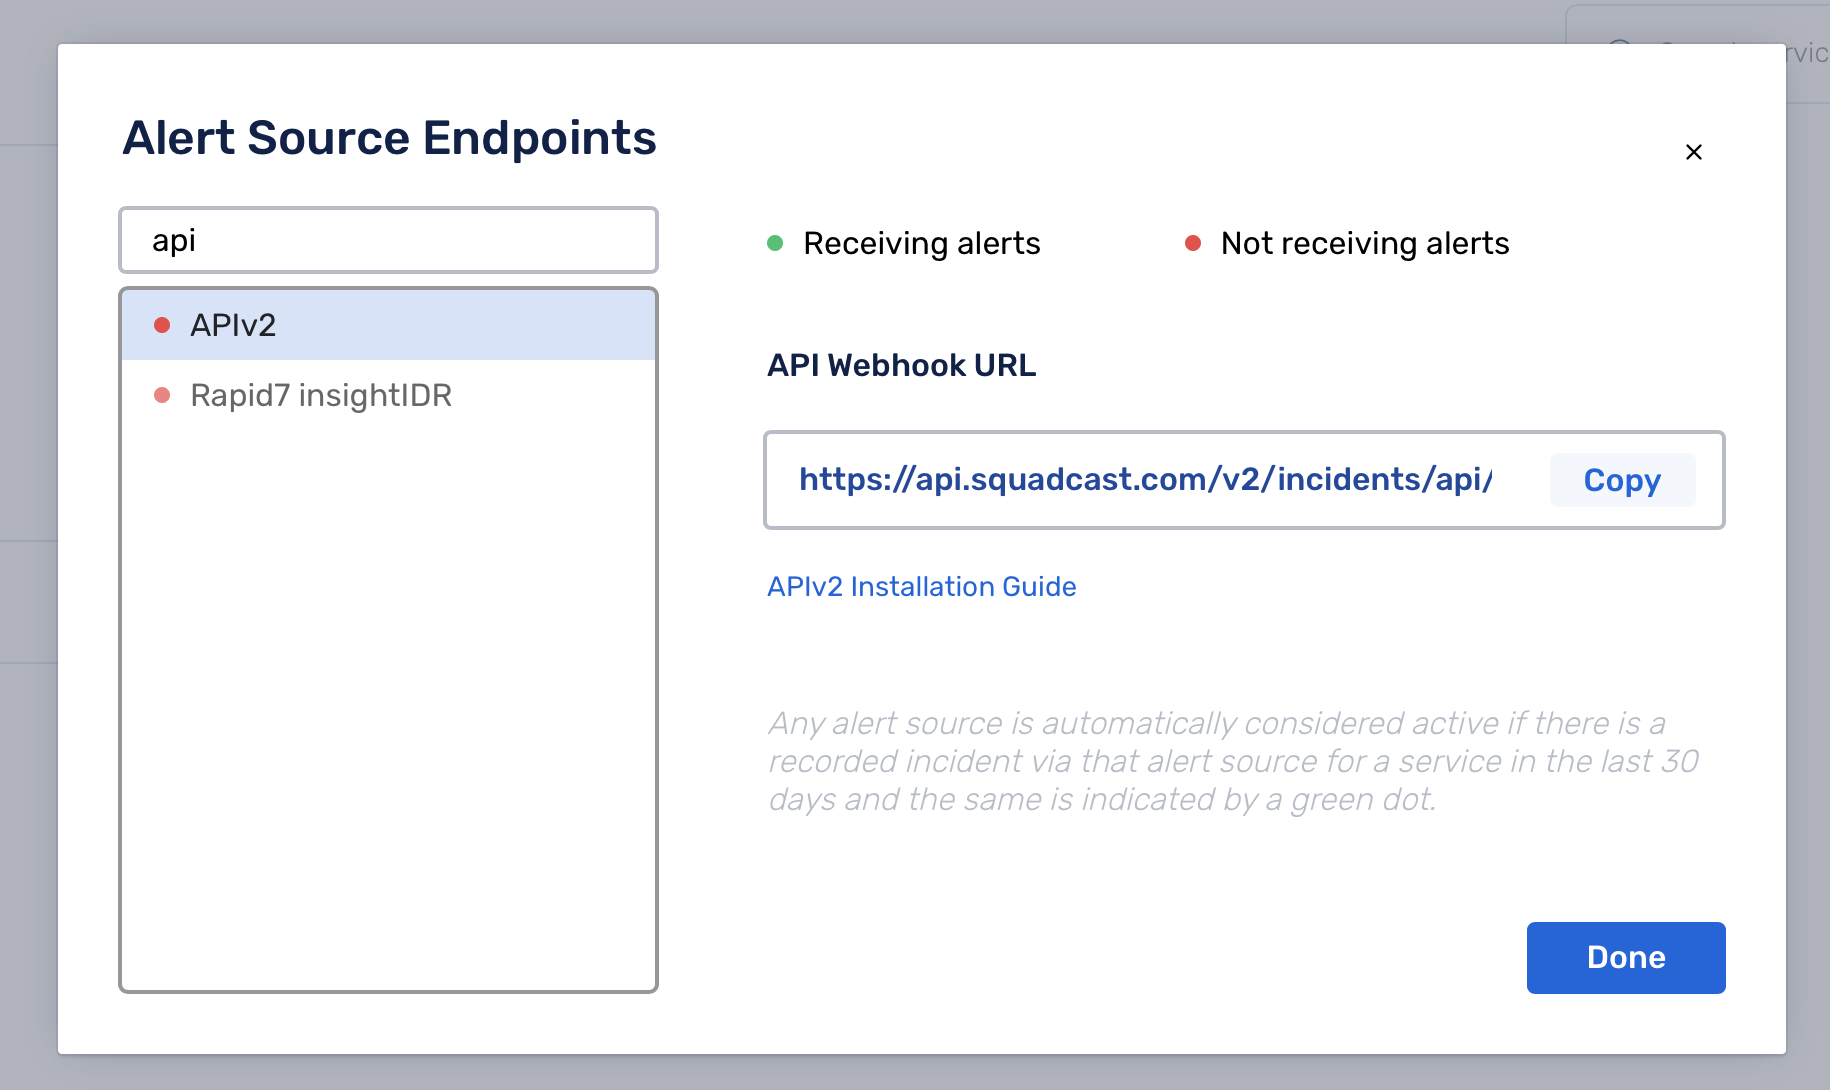
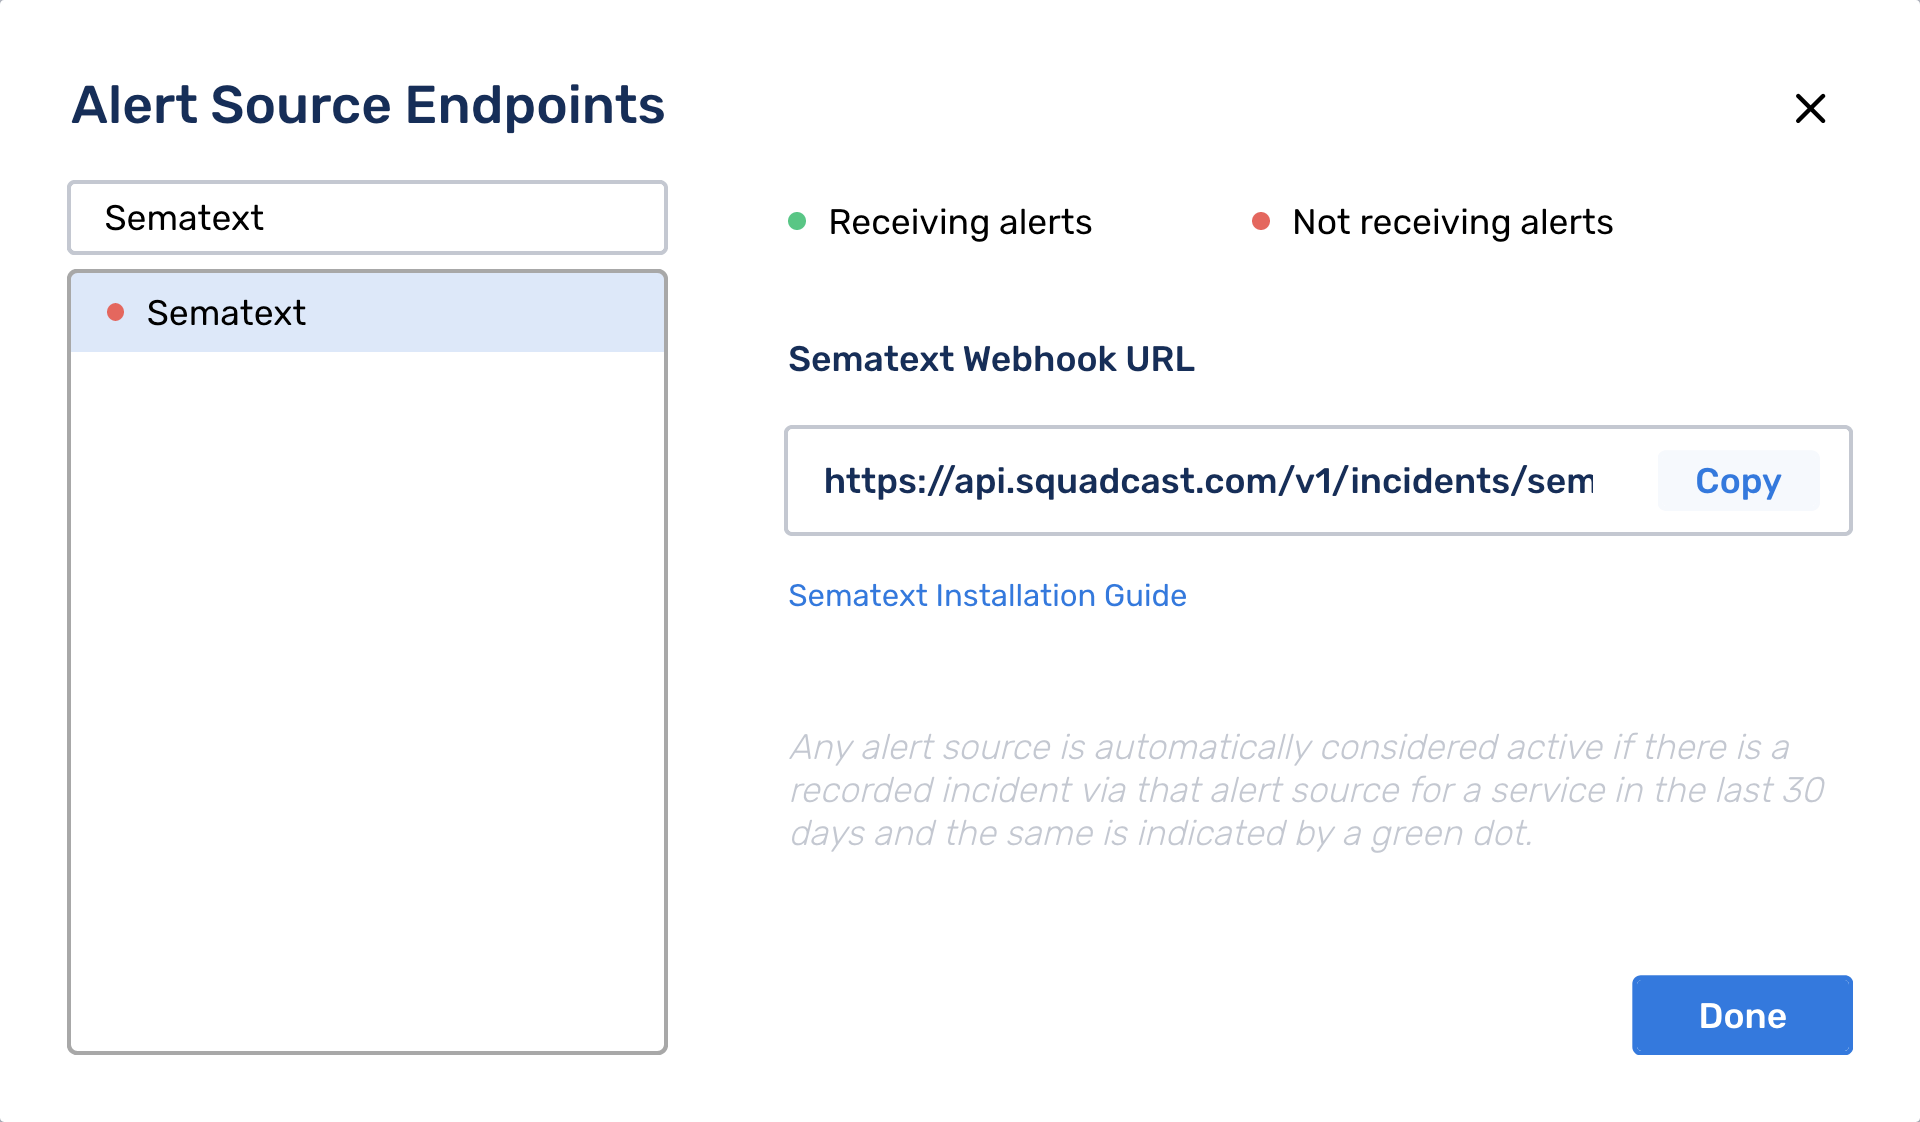
Update Squadcast integration to show dedicated Sematext Webhook URL

diff --git a/docs/integration/alerts-squadcast-integration.md b/docs/integration/alerts-squadcast-integration.md
@@ -25,11 +25,11 @@ To receive incoming notifications from Sematext add and configure a new integrat
 
 <img class="content-modal-image" alt="Create Squadcast Integration - Alert Sources" src="../../images/integrations/create-squadcast-integration-alert-sources.png" title="Create Squadcast Integration - Alert Sources">
 
-**6.** In the opened window type **API** and copy the **API Webhook URL**:
+**6.** In the opened window type **Sematext** and copy the **Sematext Webhook URL**:
 
-<img class="content-modal-image" alt="Create Squadcast Integration - API Webhook URL" src="../../images/integrations/create-squadcast-integration-alert-source-details.png" title="Create Squadcast Integration - API Webhook URL">
+<img class="content-modal-image" alt="Create Squadcast Integration - Sematext Webhook URL" src="../../images/integrations/create-squadcast-integration-alert-source-details.png" title="Create Squadcast Integration - Sematext Webhook URL">
 
-Having the **Alert Source** configured and having the **API Webhook URL** we can add the notification hook to Sematext. 
+Having the **Alert Source** configured and having the **Sematext Webhook URL** we can add the notification hook to Sematext. 
 
 ## In Sematext
 
